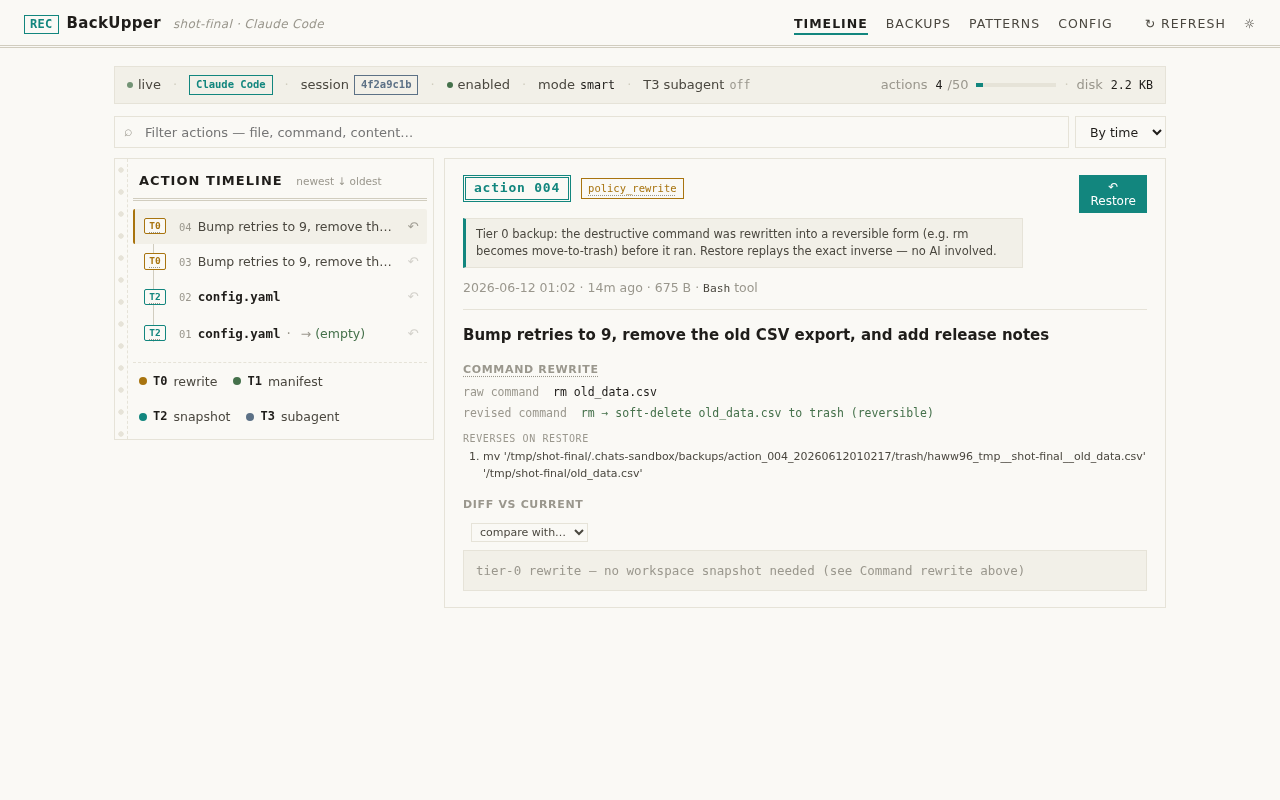
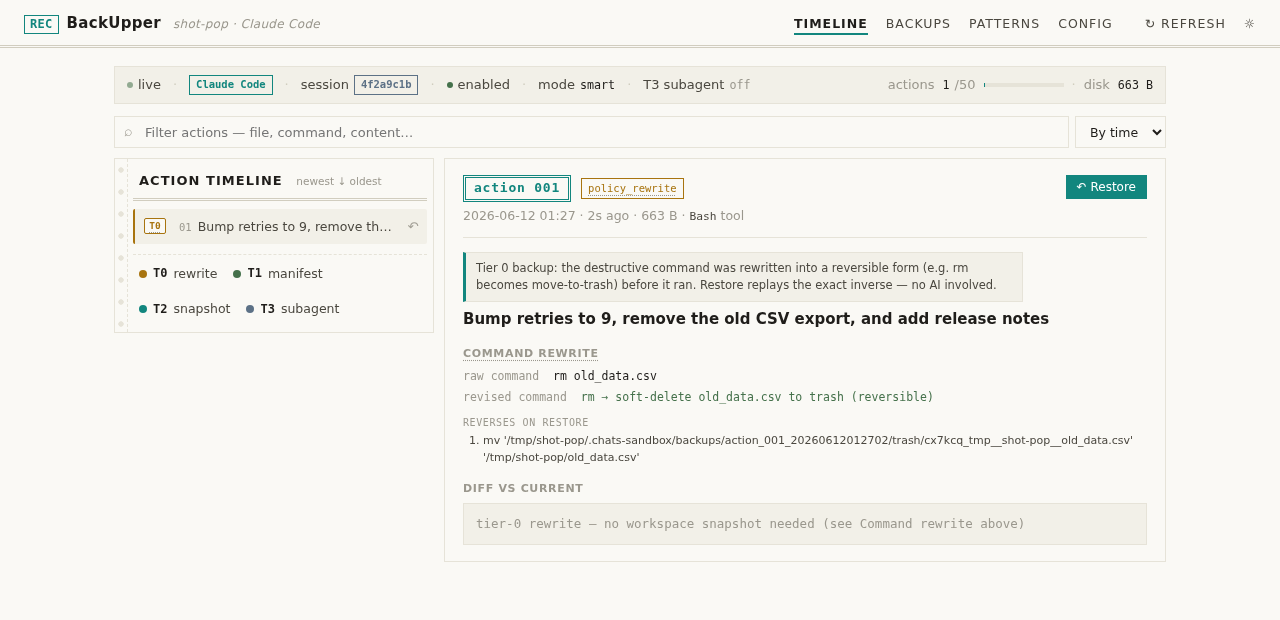
fix(dashboard): term explanation box anchors below the block
Clicking a term chip inserted the popover inside the header flex row,
breaking the title layout (Restore button shoved around) and reading
as a stray description. It now attaches after the nearest block
(header / section / table row), keeping rows intact.

diff --git a/src/dashboard/static/index.html b/src/dashboard/static/index.html
@@ -1159,22 +1159,26 @@ async function openFileModal(relPath) {
 // Key terms (.term) carry their definition in title=""; hovering shows
 // the native tooltip, and clicking shows a small inline explanation box
 // (so the help is reachable on touch / for chips that look clickable).
+let termPopOwner = null;
 document.addEventListener("click", (ev) => {
   const t = ev.target.closest(".term");
   // ignore terms that already have their own click behavior
   if (!t || t.closest(".tl-legend")) return;
   const help = t.getAttribute("title");
   if (!help) return;
-  const existing = t.nextElementSibling;
-  if (existing && existing.classList && existing.classList.contains("term-pop")) {
+  const existing = document.querySelector(".term-pop");
+  if (existing) {
     existing.remove();
-    return;
+    if (termPopOwner === t) { termPopOwner = null; return; }  // same chip → just close
   }
-  document.querySelectorAll(".term-pop").forEach((el) => el.remove());
+  termPopOwner = t;
   const pop = document.createElement("div");
   pop.className = "term-pop";
   pop.textContent = help;
-  t.insertAdjacentElement("afterend", pop);
+  // Attach BELOW the nearest block (header, section, table row…) so the
+  // box never breaks the layout of the row containing the chip.
+  const anchor = t.closest(".detail-header, .detail-section, .file-history, .bk-row, .bk-stg-head, .bk-log-row, .pat-row, .status-bar") || t;
+  anchor.insertAdjacentElement("afterend", pop);
 });
 
 $("file-modal-close").onclick = () => $("modal-file").classList.remove("show");
